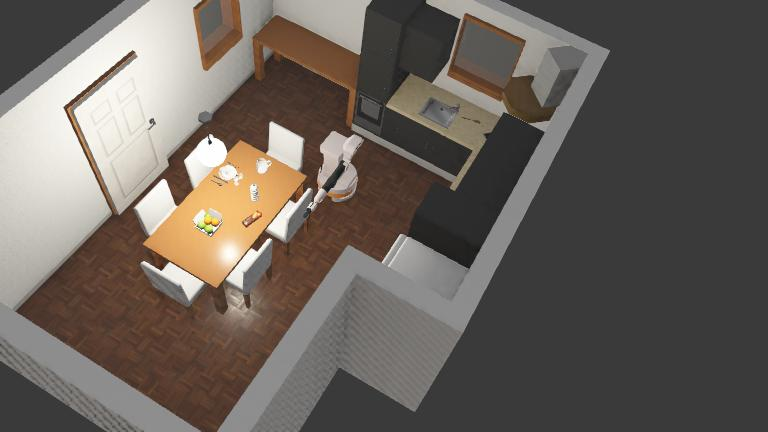
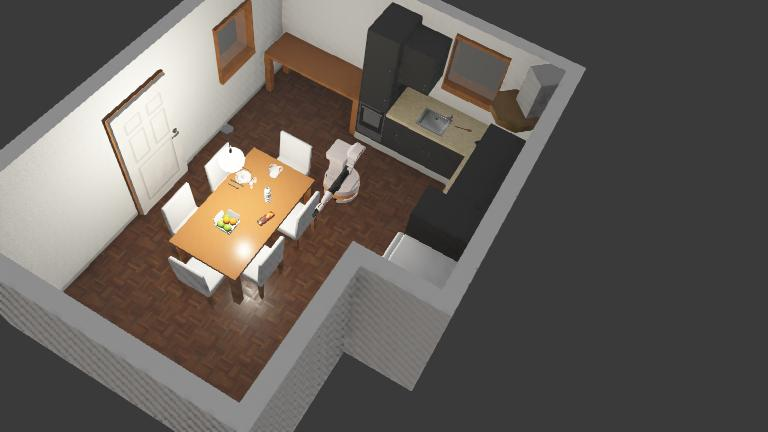
added camera

diff --git a/controllers/my_controller/my_controller.py b/controllers/my_controller/my_controller.py
@@ -40,7 +40,7 @@ robot_joints = {
 
 # Dictionary to store encoder handles
 encoders = {}
-devices = {}
+motors = {}
 
 # Loop through the joint names to create the encoder dictionary
 for joint_name in robot_joints.keys():
@@ -58,7 +58,7 @@ for joint_name in robot_joints.keys():
 for joint_name, target_position in robot_joints.items():
 	motor = robot.getDevice(joint_name)  # Get the motor device
 	motor.setPosition(target_position)  # Set the target position
-	devices[joint_name] = motor  # Store the motor handle
+	motors[joint_name] = motor  # Store the motor handle
 has_run = False
 
 
@@ -72,7 +72,7 @@ class ServoJoint(py_trees.behaviour.Behaviour):
 		self.joint_name = joint_name
 		self.target_position = target_position
 		self.timestep = timestep
-		self.motor = self.robot.getDevice(joint_name)
+		self.motor = motors.get(joint_name)
 		self.encoder = self.robot.getDevice(f"{joint_name}_sensor")
 		self.encoder.enable(timestep)
 		self.motor.setPosition(float('inf'))  # Enable velocity control
@@ -166,6 +166,7 @@ joint_targets = {
 threshold = 0.1
 
 # Create the ServoArm behavior tree node
+#servo_arm_node = ServoArm(robot, joint_targets, timestep, threshold)
 servo_arm_node = ServoArm(robot, joint_targets, timestep, threshold)
 
 # Create a root for the PyTrees tree
@@ -174,10 +175,10 @@ root.add_child(servo_arm_node)
 
 # Run the PyTrees behavior tree
 while robot.step(timestep) != -1:
-	status = root.tick_once()
-	if status == py_trees.common.Status.SUCCESS:
+	root.tick_once()
+	if root.status == py_trees.common.Status.SUCCESS:
 		print("All joints reached their target positions.")
 		break
-	elif status == py_trees.common.Status.RUNNING:
+	elif root.status == py_trees.common.Status.RUNNING:
 		print("Moving joints to target positions...")
 

diff --git a/controllers/vision_controller/vision_controller.py b/controllers/vision_controller/vision_controller.py
@@ -1,0 +1,38 @@
+"""vision_controller controller."""
+
+# You may need to import some classes of the controller module. Ex:
+#  from controller import Robot, Motor, DistanceSensor
+from controller import Robot,Supervisor
+
+# create the Robot instance.
+robot = Robot()
+
+# get the time step of the current world.
+timestep = int(robot.getBasicTimeStep())
+
+# You should insert a getDevice-like function in order to get the
+# instance of a device of the robot. Something like:
+#  motor = robot.getDevice('motorname')
+#  ds = robot.getDevice('dsname')
+#  ds.enable(timestep)
+camera = robot.getDevice("camera")
+camera.enable(timestep)
+camera.recognitionEnable(timestep)
+
+#display = robot.getDevice("display")
+# Main loop:
+# - perform simulation steps until Webots is stopping the controller
+while robot.step(timestep) != -1:
+    # Read the sensors:
+    # Enter here functions to read sensor data, like:
+    #  val = ds.getValue()
+
+    # Process sensor data here.
+
+    # Enter here functions to send actuator commands, like:
+    #  motor.setPosition(10.0)
+    objects=camera.getRecognitionObjects()
+    for object in objects:
+       print(list(object.getPosition()))
+
+# Enter here exit cleanup code.
